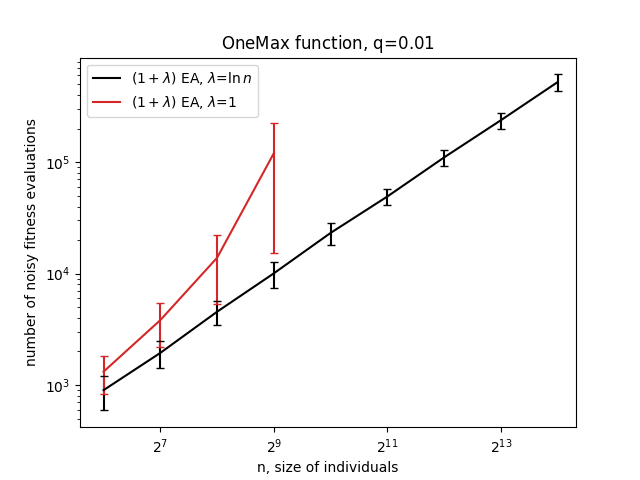
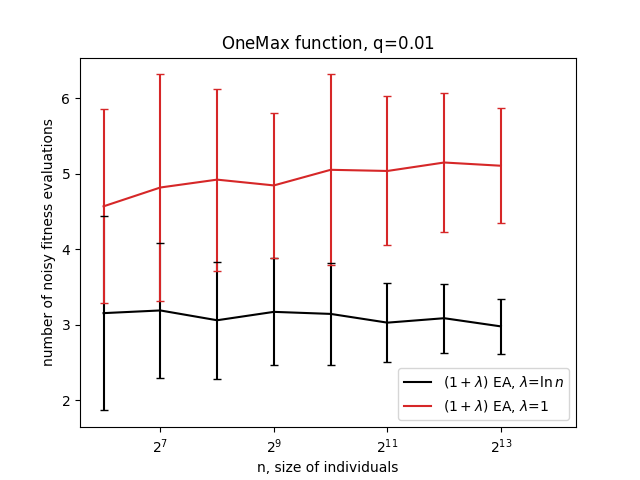
*

diff --git a/latex_plots/onemax/lea_lea: lam1=logn, lam2=1, q=0.01.tex b/latex_plots/onemax/lea_lea: lam1=logn, lam2=1, q=0.01.tex
@@ -1,6 +1,6 @@
 		\addplot plot [error bars/.cd, y dir=both, y explicit] coordinates
-		{(64,899.7)+-(0,307.7659987717941)(128,1942.55)+-(0,518.6108825506847)(256,4547.82)+-(0,1107.2988068267753)(512,10058.37)+-(0,2635.857430344062)(1024,23189.88)+-(0,5189.517662133929)(2048,49229.6)+-(0,7919.0516199858175)(4096,110458.89)+-(0,18883.338082497492)(8192,238192.6)+-(0,40279.053777863264)(16384,523874.4)+-(0,89494.29084941676)};
+		{(64,3.1545804455271313)+-(0,1.2885895268365197)(128,3.190030597108498)+-(0,0.8983321609596197)(256,3.0601759672981275)+-(0,0.7762314912341373)(512,3.1713023079693787)+-(0,0.7098339589831392)(1024,3.1442185889574126)+-(0,0.6711272614451981)(2048,3.028465878677452)+-(0,0.5267374203871367)(4096,3.087223857661278)+-(0,0.45733840469128945)(8192,2.9787244419718566)+-(0,0.3646284035715058)};
 		\addlegendentry{\oplea, \lambda=$\ln n$};
 		\addplot plot [error bars/.cd, y dir=both, y explicit] coordinates
-		{(64,1317.78)+-(0,492.5481414034571)(128,3824.26)+-(0,1613.756974392365)(256,13880.26)+-(0,8544.63691752903)(512,120475.28)+-(0,105302.13611528304)};
+		{(64,4.5693608401822265)+-(0,1.286239310420542)(128,4.81873024862636)+-(0,1.4974237187270463)(256,4.922872784202139)+-(0,1.2045156486190813)(512,4.846347016977901)+-(0,0.9647535729861609)(1024,5.053149273499913)+-(0,1.2638196773185346)(2048,5.037774785989416)+-(0,0.9870044091233434)(4096,5.1497925824364925)+-(0,0.917005807449522)(8192,5.1068873878869185)+-(0,0.7601146217484492)};
 		\addlegendentry{\oea$};

diff --git a/plot.py b/plot.py
@@ -22,8 +22,8 @@ def plot(algo_name, n_deg_from, n_deg_to, lam_name, q_name, q_tex, label, data_p
         if os.path.exists(file_name) and os.path.getsize(file_name) > 0:
             data = np.loadtxt(file_name)
             n = 1 << n_deg
-            # coeff = n * np.log(n)
-            coeff = 1
+            coeff = n * np.log(n)
+            # coeff = 1
             data = data / coeff
 
             lam = option_parse(n, lam_name, k=k)
@@ -100,7 +100,7 @@ if __name__ == '__main__':
     plt.legend()
     plt.xlabel('n, size of individuals')
     plt.ylabel('number of noisy fitness evaluations')
-    plt.yscale('log')
+    # plt.yscale('log')
     plt.xlim((2 ** n_deg_from - (2 ** n_deg_from) / 4, 2 ** n_deg_to + (2 ** n_deg_to) / 4))
     plt.xscale('log', base=2)
 

diff --git a/algorithms.py b/algorithms.py
@@ -139,7 +139,7 @@ def not_find_optimum(x, n, f):
         return x.sum() != n
 
 
-def algorithm(n, lam, q, algo_fun, f, k, p, c, fitness_evaluations, filename, reevaluate=False):
+def algorithm(n, lam, q, algo_fun, f, k, p, c, fitness_evaluations, filename, reevaluate=True):
     n_iters = 0
     if is_quick(f):
         x = np.random.binomial(n, 1 / 2)
